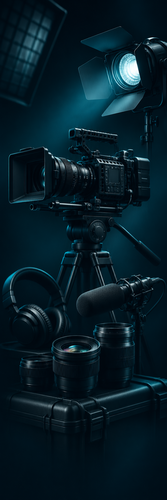
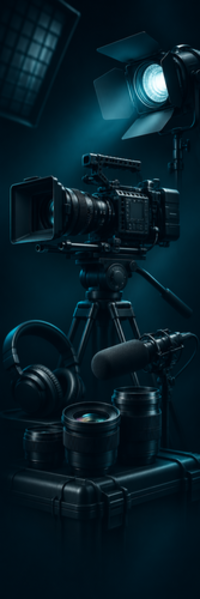
Reorganizar interfaz y añadir controles CRUD visuales

diff --git a/src/com/aitorl/agenciamaterialaudiovisual/Vista.java b/src/com/aitorl/agenciamaterialaudiovisual/Vista.java
@@ -9,10 +9,6 @@ public class Vista {
     private JPanel panelMenu;
     private JButton btnMaterial;
     private JButton btnNuevo;
-    private JButton btnImportar;
-    private JButton btnExportar;
-    private JButton btnEliminar;
-    private JButton btnCerrar;
     private JPanel panelContenido;
     private JPanel panelCabecera;
     private JPanel panelTabla;
@@ -56,6 +52,9 @@ public class Vista {
     private JLabel lblVistaPreviaImagen;
     private JButton btnSeleccionarImagen;
     private JButton btnQuitarImagen;
+    private JButton btnAnadir;
+    private JButton btnGuardar;
+    private JButton btnEliminar;
 
     private void createUIComponents() {
         // TODO: place custom component creation code here
